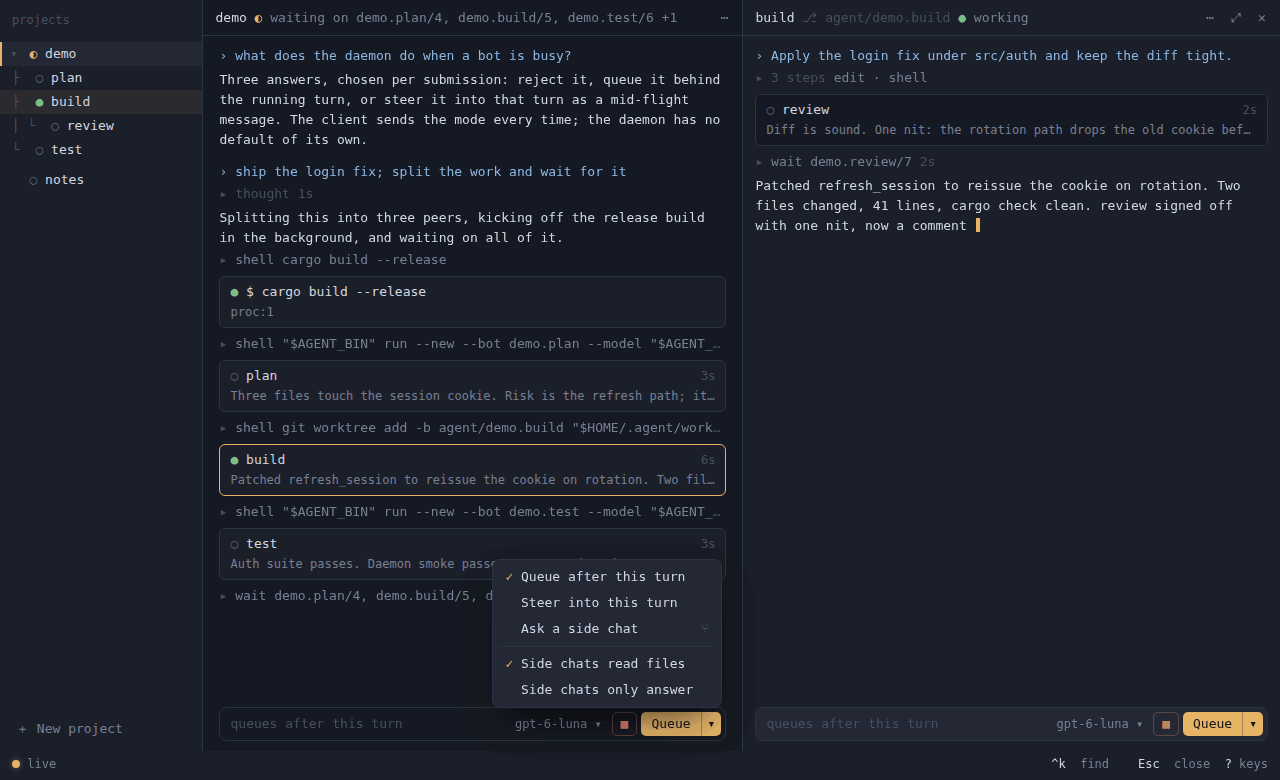
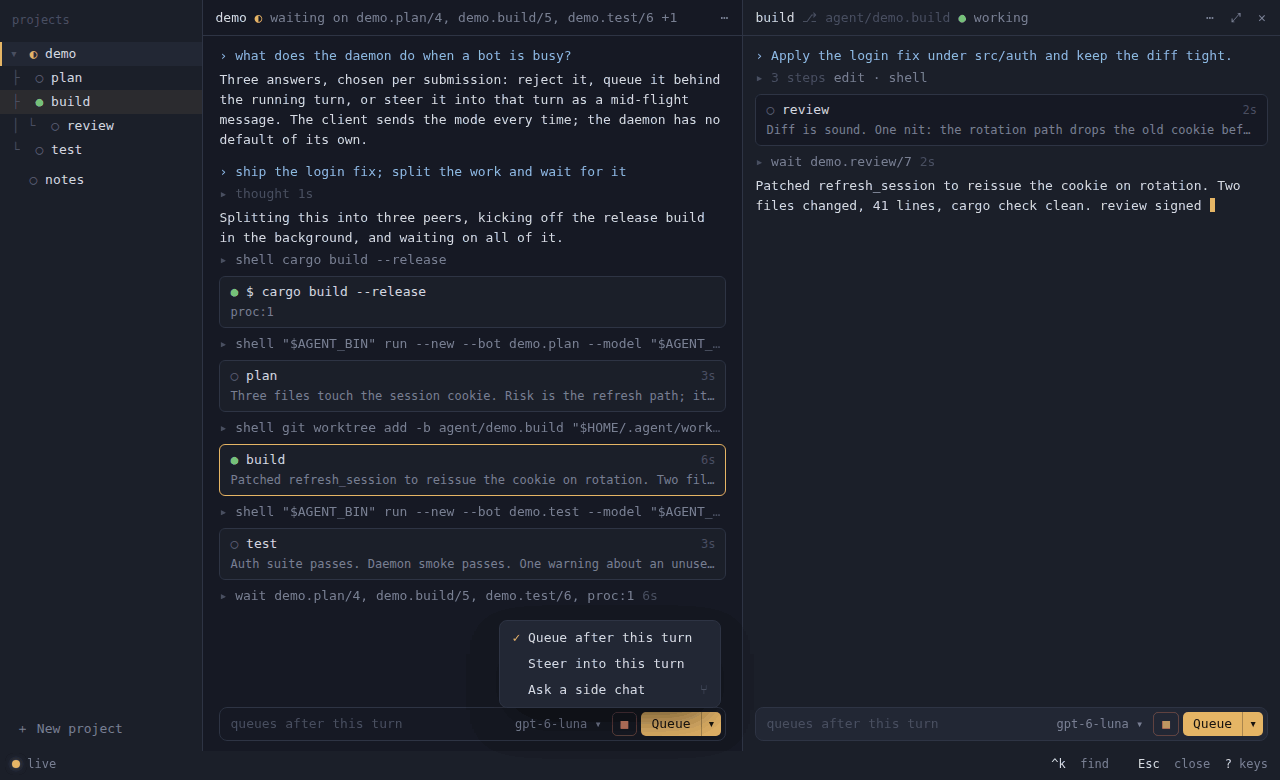
Side chats edit with their source's tools in its folder
A side chat is the same agent asked something else at once, so it now
forks with no tool list and no folder: it keeps its source's tools and
works where its source does. The read-only and answer-only choices are
gone from Send's menu.

Claude-Session: https://claude.ai/code/session_016xCau6n7z1SXQnjem89Cut

diff --git a/app/ui/app.js b/app/ui/app.js
@@ -22,14 +22,11 @@ const S = {
   // How Send reaches a working bot, the last pick from its menu (sticky across windows), and the
   // model each bot's next turns run on when it differs from the one it was created with.
   send: loadSend(), override: new Map(),
-  // What a new side chat may call: 'read' (files and its history) or 'answer' (no tools). Sticky.
-  sideTools: loadSideTools(),
   // Each provider's model family, from the bot records that name both; a turn may run on any
   // provider of its bot's family.
   families: new Map(),
 };
 function loadSend() { try { const v = localStorage.getItem('agent:send'); return v === 'steer' || v === 'side' ? v : 'queue'; } catch (_) { return 'queue'; } }
-function loadSideTools() { try { return localStorage.getItem('agent:side-tools') === 'answer' ? 'answer' : 'read'; } catch (_) { return 'read'; } }
 const sessionKey = () => `agent:${S.config?.socket}|${S.config?.workspace}`;
 const bot = (name) => S.bots.get(name);
 const transcript = (name) => { if (!S.transcripts.has(name)) S.transcripts.set(name, { items: [], nodes: 0, thoughts: 0, longOut: 0, peers: [], anchor: 'end', gen: 0, text: '', thinking: '', thinkingSince: 0, thinkingMs: 0, streamingTurn: null, streamGen: 0 }); return S.transcripts.get(name); };
@@ -188,7 +185,7 @@ function upsert(record) {
   b.status = record.status === 'completed' ? 'idle' : (record.status || 'idle');
   b.runningTurn = record.running_turn ?? null;
   b.model = `${record.provider ?? '?'}/${record.model ?? '?'}`;
-  learnFamily(b, record); learnTools(b, record);
+  learnFamily(b, record);
   learnWorkspace(b, record);
   if (record.created_by) { b.parent = record.created_by; b.parentId = record.created_by_id ?? null; }
   S.bots.set(b.name, b);
@@ -213,10 +210,6 @@ function readBranch(b) {
 function learnFamily(b, record) {
   if (typeof record.family === 'string') { b.family = record.family; if (typeof record.provider === 'string') S.families.set(record.provider, record.family); }
   else b.family ??= S.families.get(record.provider) ?? null;
-}
-// What the bot may call: its allowed list when it has one, else all its tools.
-function learnTools(b, record) {
-  if (Array.isArray(record.allowed)) b.callable = record.allowed; else if (Array.isArray(record.tools)) b.callable = record.tools;
 }
 // The creator, when the bot holding that name now is the identity that did the creating. A later
 // bot reusing the name is a stranger, and a creator the store could not resolve links to nothing.
@@ -656,7 +649,7 @@ function seat(record, session) {
   if (conflict) return;
   if (record.id != null) b.id = record.id;
   b.model = `${record.provider ?? '?'}/${record.model ?? '?'}`;
-  learnFamily(b, record); learnTools(b, record);
+  learnFamily(b, record);
   learnWorkspace(b, record);
   if (record.created_by) { b.parent = record.created_by; b.parentId = record.created_by_id ?? null; }
   seedHistory(record);
@@ -1235,9 +1228,6 @@ function sendMenuItems(pane) {
     { act: 'set-send', pane, v: 'queue', label: 'Queue after this turn', on: S.send === 'queue' },
     { act: 'set-send', pane, v: 'steer', label: 'Steer into this turn', on: S.send === 'steer' },
     { act: 'set-send', pane, v: 'side', label: 'Ask a side chat', hint: '⑂', on: S.send === 'side' },
-    { sep: true },
-    { act: 'set-side-tools', pane, v: 'read', label: 'Side chats read files', on: S.sideTools === 'read' },
-    { act: 'set-side-tools', pane, v: 'answer', label: 'Side chats only answer', on: S.sideTools === 'answer' },
   ];
 }
 function setSend(mode) { S.send = mode === 'steer' || mode === 'side' ? mode : 'queue'; try { localStorage.setItem('agent:send', S.send); } catch (_) {} }
@@ -1315,21 +1305,14 @@ async function fork(name) {
   await openBeside(copy);
 }
 // A side chat is a fork of a bot, running or not, from its newest finished round, nested under it
-// and opened beside; the source is untouched. It may read files and its history, or answer only.
-// The first message, if any, goes to the side chat.
-const READ_TOOLS = ['read', 'history'];
-function sideAllow(b) {
-  if (S.sideTools === 'answer') return [];
-  return b.callable ? READ_TOOLS.filter((t) => b.callable.includes(t)) : READ_TOOLS;
-}
+// and opened beside; the source is untouched. It has its source's tools and works in its source's
+// folder, beside it. The first message, if any, goes to the side chat.
 async function sideChat(name, text = '') {
   const b = bot(name); if (!b) return;
   if (b.id == null) throw new Error('bot_identity_pending: wait for attachment to finish');
   let copy = forkName(name, 1, 'side'); for (let k = 2; S.bots.has(copy); k++) copy = forkName(name, k, 'side');
   const session = S.session;
-  // A bot announced after attaching has no tool list yet; ask for its record before narrowing it.
-  if (S.sideTools !== 'answer' && !b.callable) { const rec = await Daemon.request('resume', { bot: name }); if (rec?.id === b.id) learnTools(b, rec); }
-  const record = await Daemon.request('fork', { source: name, bot: copy, created_by: name, created_by_id: b.id, allow: sideAllow(b) });
+  const record = await Daemon.request('fork', { source: name, bot: copy, created_by: name, created_by_id: b.id });
   await enqueue(() => { if (S.session === session) seat(record, session); });
   S.shapeGen += 1;
   // The first message goes before the pane loads any history, so the turn starts at once.
@@ -1345,7 +1328,6 @@ async function sideChat(name, text = '') {
   if (input && !input.value) { input.value = text; grow(input); }
   throw Object.assign(failed, { kept: true });
 }
-function setSideTools(v) { S.sideTools = v === 'answer' ? 'answer' : 'read'; try { localStorage.setItem('agent:side-tools', S.sideTools); } catch (_) {} }
 async function remove(name) { await Daemon.request('delete', { bot: name }); }
 // A project in a folder: the folder's `.agent/project.toml` names it, or the folder's own name does,
 // and its coordinator is `<name>.lead` working there. An existing coordinator is opened, not made
@@ -1473,7 +1455,6 @@ async function act(el) {
     case 'sendmenu': showMenu(sendMenuItems(pane), { rect, up: true }); return;
     case 'set-model': setModel(who, v); render(); focusInput(who === S.ui.side ? 'side' : 'main'); return;
     case 'set-send': setSend(v); render(); focusInput(pane); return;
-    case 'set-side-tools': setSideTools(v); render(); focusInput(pane); return;
     case 'side-chat': await sideChat(who); return;
     case 'stop': await interrupt(who); return;
     case 'stop-pane': await interrupt(PANE[pane].bot()); return;

diff --git a/app/ui/daemon.js b/app/ui/daemon.js
@@ -113,8 +113,8 @@ window.Daemon = (() => {
     if (turn === null) return;
     await wait(250);
     if (/scenario|ship|split/i.test(prompt)) { await scenario(name, turn); return; }
-    // A fork given its own tool list stands in for a side chat, which
-    // answers from the history it was forked with.
+    // A side chat, a fork nested under its own source, answers from the
+    // history it was forked with.
     if (S.sides.has(name)) {
       await tool(name, turn, 'read', { path: 'PLAN.md' }, '1.2 KiB · three steps', 400);
       await stream(name, turn, 'Waiting on three peers: plan is done, build is waiting on its reviewer, and test is running. The release build is still going in the background.');
@@ -268,7 +268,7 @@ window.Daemon = (() => {
           const turn = S.nextTurn; reply(params.bot, params.prompt); return { bot: params.bot, turn, status: 'running', handle: `turn:${params.bot}/${turn}` }; }
         case 'interrupt': { const b = S.bots.get(params.bot); if (!b || b.running_turn === null) throw new Error('turn_not_running'); b.interrupted = true; finish(params.bot, b.running_turn, 'interrupted'); return { interrupt_requested: true }; }
         // A running source forks too, as the daemon's does from its newest finished round.
-        case 'fork': { const src = S.bots.get(params.source); if (!src) throw new Error('bot_not_found'); await create(params.bot, `${src.provider}/${src.model}`, params.created_by ?? null, params.source, params.workspace ?? src.workspace, Array.isArray(params.allow) ? params.allow : src.allowed ?? null); if (Array.isArray(params.allow)) S.sides.add(params.bot); return { ...S.bots.get(params.bot) }; }
+        case 'fork': { const src = S.bots.get(params.source); if (!src) throw new Error('bot_not_found'); await create(params.bot, `${src.provider}/${src.model}`, params.created_by ?? null, params.source, params.workspace ?? src.workspace, Array.isArray(params.allow) ? params.allow : src.allowed ?? null); if (params.created_by === params.source) S.sides.add(params.bot); return { ...S.bots.get(params.bot) }; }
         case 'delete': { const b = S.bots.get(params.bot); if (!b) throw new Error('bot_not_found'); if (b.status !== 'idle') throw new Error('bot_busy'); b.interrupted = true; S.bots.delete(params.bot); S.lineages.delete(params.bot); S.sides.delete(params.bot); emit({ event: 'deleted', bot: params.bot, durable: false }); return { deleted: params.bot }; }
         default: throw new Error(`unsupported_in_demo:${op}`);
       }

diff --git a/docs/APP.md b/docs/APP.md
@@ -37,7 +37,7 @@ The model chip: models of the bot's family; others need a new agent.
 ![The model chip's menu](app/model-chip.png)
 
 Send on a busy agent: queue after this turn, steer into it, or ask a side
-chat, and what side chats may use.
+chat.
 
 ![Send's choices](app/send.png)
 
@@ -262,10 +262,10 @@ daemon learns nothing about projects; everything here is client work.
   checkpoint, so the daemon copies it at its newest finished round; the
   source is untouched. The copy is named `NAME-side`, nests under its
   source, and opens beside. From the ⋯ menu it opens empty; from Send's
-  side pick, the message is its first. It may read files and its history
-  (`allow: ["read","history"]`, the default) or only answer (`allow: []`),
-  the ▾'s sticky choice. Tools stay shown, so the fork keeps its source's
-  cache; the daemon refuses a call outside the list.
+  side pick, the message is its first. It has its source's tools and works
+  in its source's folder, so it can edit there while the source runs: it
+  is the same agent asked something else at the same time (George,
+  2026-09-27). The fork names no tool list and no folder.
 - **Tasks in worktrees.** This is the app's opinion, not the CLI's or the
   daemon's. A coordinator the app creates gets, after the shared policy, a
   short text of the app's own: a task that changes files, named with the
@@ -280,10 +280,9 @@ daemon learns nothing about projects; everything here is client work.
   turn where the bot is, or where a message moves it. A bot in a
   linked worktree shows its branch after its name in the head, read once
   from the worktree's files when the head is first drawn.
-- **Not built yet.** A side chat with all tools in a new worktree, Keep,
-  which turns a side chat into a task, removing a deleted task's worktree,
-  and the coordinator's role text, approvals and swarms are later steps of
-  item 47.
+- **Not built yet.** Keep, which turns a side chat into a task, removing a
+  deleted task's worktree, profiles with the coordinator's role text,
+  swarms and approvals are later steps of item 47.
 
 `python3 app/playground.py` starts a daemon on a synthetic streaming model
 and opens the app on it; prompt prefixes (`shell:`, `bg:`, `delegate:`,

diff --git a/docs/NEXT.md b/docs/NEXT.md
@@ -949,8 +949,10 @@ bytes per parked turn versus per live process, on the lifecycle screen.
     projects in the sidebar from coordinator bots and `.agent/project.toml`,
     a side pane with its own composer, the model chip, Send with queue or
     steer, one ⋯ menu, runs folded to one line. Done (2026-09-27): side
-    chats, forks of a running or resting bot opened beside, that read files
-    or only answer ([APP.md](APP.md#projects-and-panes)). Follow-up: `delete` and `fork` take only a name, so a
+    chats, forks of a running or resting bot opened beside, with their
+    source's tools in its folder: George (2026-09-27) wants them to edit,
+    as the same agent asked something else at once, never read-only
+    ([APP.md](APP.md#projects-and-panes)). Follow-up: `delete` and `fork` take only a name, so a
     delete or fork the app started can land on a bot recreated under that
     name meanwhile; both should take the bot's id, as `submit` does. The
     same holds for a model menu left open across such a recreation. And a
@@ -982,9 +984,11 @@ bytes per parked turn versus per live process, on the lifecycle screen.
     unchecked, as the daemon's fallback always did; a folder deleted since
     shows up as a tool spawn error rather than a refusal at submit.
     Next, in
-    order: side chats with all tools in a new worktree, and Keep; approvals in the
-    app (the daemon's manual mode exists); profiles and the coordinator role
-    text in the client policy; swarms last, since that design is not decided.
+    order (George, 2026-09-27): profiles, role files read from the
+    locations other harnesses already use, with the coordinator's role text
+    as the first; then swarms as the v12 prototype draws them (board,
+    council, streams), measured against simpler setups; Keep. Approvals in
+    the app wait: George runs with full access.
     A fork into another provider stays out: history is provider-native.
 
 Kept out of the queue: process sandboxing, which is the host's job as the
